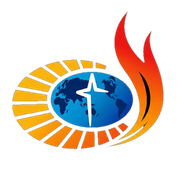
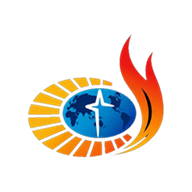
푸시기능알람로고개선

Changed region(s): [[0.0625, 0.0625, 0.875, 0.8438]]

diff --git a/frontend/public/sw.js b/frontend/public/sw.js
@@ -148,14 +148,16 @@ self.addEventListener('pushsubscriptionchange', (event) => {
 self.addEventListener('push', (event) => {
   console.log('📬 푸시 알림 수신:', event);
   
-  // icon: 투명 배경 글리프(알림 카드용), badge: 흰색 불꽃 실루엣(안드로이드 상태바는
-  // 알파 마스크만 렌더링하므로 컬러 아이콘을 주면 회색 덩어리가 된다).
+  // icon: 투명 배경 글리프(알림 카드용) — 안드로이드가 원형 크롭해도 잘리지 않게
+  // 192px 캔버스 안 136px 박스로 여백을 둔다.
+  // badge: 전체 로고 흰색 실루엣(안드로이드 상태바는 알파 마스크만 렌더링하므로
+  // 컬러 아이콘을 주면 회색 덩어리가 된다. 불꽃만 넣으면 로고가 잘려 보인다는 피드백으로 전체 로고 사용).
   // image(큰 이미지)는 기본값을 두지 않는다 — 페이로드가 명시할 때만 표시.
   const defaultData = {
     title: '알림',
     body: '새로운 알림이 도착했습니다.',
-    icon: getAbsoluteUrl('notification-icon-192.png'),
-    badge: getAbsoluteUrl('notification-badge-96.png?v=2'),
+    icon: getAbsoluteUrl('notification-icon-192.png?v=2'),
+    badge: getAbsoluteUrl('notification-badge-96.png?v=3'),
     url: BASE_PATH
   };
 
@@ -249,8 +251,8 @@ self.addEventListener('push', (event) => {
         console.log('🔄 기본 알림으로 재시도...');
         return await self.registration.showNotification('알림', {
           body: data.body || '새로운 알림이 도착했습니다.',
-          icon: getAbsoluteUrl('notification-icon-192.png'),
-          badge: getAbsoluteUrl('notification-badge-96.png?v=2')
+          icon: getAbsoluteUrl('notification-icon-192.png?v=2'),
+          badge: getAbsoluteUrl('notification-badge-96.png?v=3')
         });
       } catch (retryError) {
         console.error('❌ 재시도도 실패:', retryError);

diff --git a/frontend/src/utils/pushNotification.ts b/frontend/src/utils/pushNotification.ts
@@ -323,8 +323,8 @@ export const showTestNotification = async (title: string, body: string): Promise
   const registration = await navigator.serviceWorker.ready;
   await registration.showNotification(title, {
     body,
-    icon: `${import.meta.env.BASE_URL}notification-icon-192.png`,
-    badge: `${import.meta.env.BASE_URL}notification-badge-96.png`,
+    icon: `${import.meta.env.BASE_URL}notification-icon-192.png?v=2`,
+    badge: `${import.meta.env.BASE_URL}notification-badge-96.png?v=3`,
     tag: 'test-notification'
   });
 };

diff --git a/frontend/src/pages/Admin/PushNotificationManagement.tsx b/frontend/src/pages/Admin/PushNotificationManagement.tsx
@@ -11,7 +11,7 @@ const TITLE_MAX = 50
 const BODY_MAX = 200
 // 상대 경로로 보내면 수신 측 sw.js가 자기 배포 위치(BASE_PATH) 기준으로 절대 URL을 만든다.
 // (Vercel 구독자는 루트, 구 GitHub Pages 구독자는 /chambitcc/ 기준으로 각각 올바르게 해석됨)
-const DEFAULT_ICON = 'notification-icon-192.png'
+const DEFAULT_ICON = 'notification-icon-192.png?v=2'
 
 interface Preset {
   key: string
